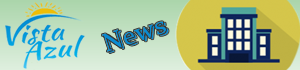
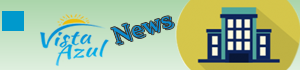
ajuste imagem

Changed region(s): [[0.0, 0.0286, 0.6, 1.0]]

diff --git a/src/pages/main/index.js b/src/pages/main/index.js
@@ -1,6 +1,6 @@
 import React, { Component } from 'react';
 import AsyncStoragec from '../../class/asyncStorage';
-import { View,Text,Image,Platform,StyleSheet} from 'react-native';
+import { View,Text,Image,ImageBackground,StyleSheet} from 'react-native';
 import api from '../../services/api';
 import styles from './styles';
 import {Drawer, Container, Header, Content,Button } from 'native-base';
@@ -8,15 +8,14 @@ import Icon from 'react-native-vector-icons/FontAwesome';
 
 class SideBar extends Component {
   render(){
-      
-      return (
-              <View style={[ styless.container, { backgroundColor: '#fff' } ]}>
-                      <Text>
-                          <Icon name="rocket" size={30} color="#900" />
-                          Conteúdo side bar
-                      </Text>
-              </View>
-             );
+    return (
+      <View style={[ styless.container, { backgroundColor: '#fff' } ]}>
+        <Text>
+            <Icon name="rocket" size={30} color="#900" />
+            Conteúdo side bar
+        </Text>
+      </View>
+    );
   } 
 };
 
@@ -86,18 +85,14 @@ static navigationOptions = {
   const {object} = this.state;
     return (
       <View style={styles.body}>
+        <ImageBackground source={require('../../images/news.png')} style={{width: '100%', height: 70}}>
+          <Icon style={{ marginLeft: 5 }} onPress={() => this.openDrawer()} name="bars" size={30} color="#fff" />
+        </ImageBackground>
         <Drawer
         ref={(ref) => { this.drawer = ref; }}
         content={<SideBar navigator={this.navigator} />}
         onClose={() => this.closeDrawer()}>
         <Container>
-          <Header>
-              <Container style={{flexDirection: 'row'}}>
-                      <Icon onPress={() => this.openDrawer()} name="bars" size={30} color="blue" />
-              </Container>
-          </Header>
-          <Icon onPress={() => this.openDrawer()} name="bars" size={30} color="blue" />
-          <Image style={{ width: '100%', height: 80 }}source={require('../../images/news.png')}/>
           <View style={styles.container}>
             <View style={styles.titleContainer}> 
               <Text style={styles.title}>{object.title}</Text>
